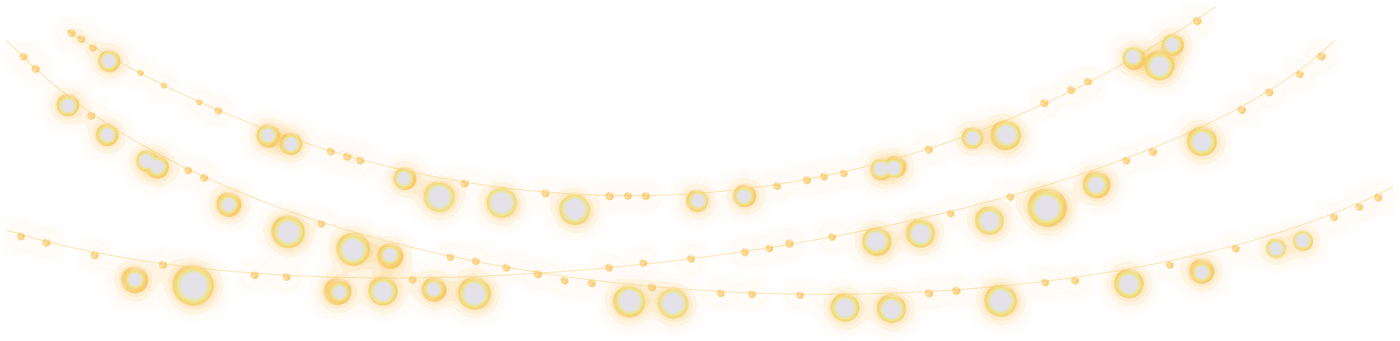
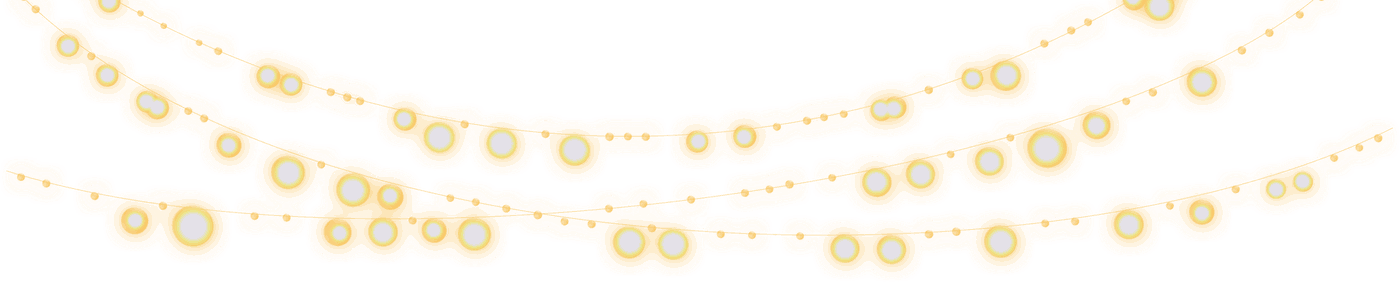
Frame the page and lift the upload form above the fold
Three things Ali asked for, and the reasons they mattered.

The garland hung in open space on a wide screen, strung between nothing. The
page now sits in a bordered frame, and the artwork is slightly wider than that
frame so its ends are cut by the border rather than stopping mid-air. Confetti
is gone from the top, where it sat on top of the lights, and kept at the
bottom.

The masthead was costing most of the first screen: a 260px barn stacked under
names split across three lines, which pushed the upload button — the only
thing the page exists for — off the bottom on a phone. The barn is now small
and beside the names, and the names run on one line.

This departs from the design system twice, deliberately. The invitation stacks
the names with the ampersand on its own row and sets the barn large and
centred beneath. That is right for a 5x7 card held in the hand; here the same
elements are laid out across instead of down, so the barn still appears on
every piece as the system asks.

The remaining height was the artwork itself, whose height follows its width.
Measuring the ink showed the bottom is dense with bulbs but the top 60px is
just thin arcs — and those are clipped by the frame regardless — so the source
image is re-cropped from the original rather than resized twice. A short-screen
rule narrows the frame further on laptops, which are wide but short, without
making a tall desktop feel cramped.
[…]

diff --git a/public/assets/styles.css b/public/assets/styles.css
@@ -71,10 +71,32 @@ a { color: var(--ink); }
 
 /* --- Page shell ---------------------------------------------------------- */
 
-.page {
+/* The garland used to hang in open space on a wide screen, with nothing for
+   it to be strung between. The frame gives it two walls: it is clipped at the
+   frame's edges, so it reads as strung across the room rather than floating. */
+.frame {
   position: relative;
+  max-width: 860px;
+  margin: 0 auto;
   min-height: 100vh;
   overflow: hidden;
+}
+
+@media (min-width: 900px) {
+  .frame {
+    margin: var(--space-3) auto;
+    min-height: calc(100vh - (var(--space-3) * 2));
+    border: 1px solid rgba(247, 231, 167, 0.55);
+  }
+}
+
+/* Laptop screens are wide but short. The garland's height follows the frame's
+   width, so a narrower frame on a short screen keeps the upload button on the
+   first screen without making a tall desktop feel cramped. */
+@media (min-width: 900px) and (max-height: 820px) {
+  .frame { max-width: 700px; }
+  .divider { margin: var(--space-1) auto; }
+  .masthead__barn { width: 96px; }
 }
 
 .wrap {
@@ -82,7 +104,6 @@ a { color: var(--ink); }
   z-index: 2;
   max-width: 34rem;
   margin: 0 auto;
-  /* space-4 page margins; the drop below the lights is also space-4. */
   padding: 0 var(--space-3) var(--space-4);
 }
 
@@ -97,10 +118,12 @@ a { color: var(--ink); }
   position: relative;
   left: 50%;
   transform: translateX(-50%);
-  width: 130%;
-  max-width: 1400px;
+  /* Slightly wider than the frame so its ends are cut off by the border,
+     rather than stopping short and dangling in mid-air. */
+  width: 112%;
+  max-width: none;
   height: auto;
-  margin-bottom: var(--space-4);
+  margin-bottom: var(--space-2);
   pointer-events: none;
   z-index: 1;
 }
@@ -128,22 +151,37 @@ a { color: var(--ink); }
 
 /* --- Type ---------------------------------------------------------------- */
 
+.masthead {
+  display: flex;
+  align-items: center;
+  justify-content: center;
+  gap: var(--space-3);
+  text-align: left;
+}
+
+.masthead__barn {
+  flex: 0 0 auto;
+  width: clamp(76px, 13vw, 132px);
+  height: auto;
+}
+
+.masthead__text > * + * { margin-top: var(--space-1); }
+
 .names {
   font-family: var(--font-serif);
-  /* 56px on the invitation; scaled down so it never wraps on a phone. */
-  font-size: clamp(2.125rem, 9vw, 3.5rem);
+  /* One line, per Ali's direction. The invitation stacks the names with the
+     ampersand on its own row; across reads better here and keeps the upload
+     button on the first screen. */
+  font-size: clamp(1.75rem, 6.2vw, 3.25rem);
   line-height: 1.1;
   letter-spacing: 0.04em;
   text-transform: uppercase;
   font-weight: 400;
   margin: 0;
+  white-space: nowrap;
 }
 
-.names .amp {
-  display: block;
-  font-size: 0.62em;
-  line-height: 1;
-}
+.names .amp { font-size: 0.78em; }
 
 .lead {
   font-size: clamp(1rem, 4vw, 1.25rem);
@@ -186,22 +224,11 @@ a { color: var(--ink); }
 
 /* --- Ornament ------------------------------------------------------------ */
 
-/* The Round Barn sketch sits centred below the names. It appears on every
-   piece in this system, so every page here carries it. */
-.barn {
-  display: block;
-  width: min(260px, 52vw);
-  height: auto;
-  margin: var(--space-3) auto 0;
-}
-
-.barn--small { width: min(150px, 34vw); }
-
 /* One scroll flourish per section; never stack two. */
 .divider {
   display: block;
-  margin: var(--space-3) auto;
-  width: min(240px, 60%);
+  margin: var(--space-2) auto;
+  width: min(200px, 52%);
   height: auto;
 }
 
@@ -544,8 +571,9 @@ a { color: var(--ink); }
 
 @media (max-width: 480px) {
   .wrap { padding: 0 var(--space-2) var(--space-4); }
-  .confetti { --confetti-size: 150px; }
-  .lights { width: 150%; margin-bottom: var(--space-3); }
+  .confetti { --confetti-size: 170px; }
+  .lights { width: 128%; margin-bottom: var(--space-2); }
+  .masthead { gap: var(--space-2); }
   .grid { grid-template-columns: repeat(auto-fill, minmax(118px, 1fr)); gap: 10px; }
 }
 

diff --git a/lib/view.php b/lib/view.php
@@ -28,9 +28,8 @@ function render_head(string $title, string $description = ''): void
 <link rel="stylesheet" href="assets/styles.css">
 </head>
 <body>
-<div class="page">
+<div class="frame">
   <img class="lights" src="assets/brand/string-lights.png" alt="" aria-hidden="true">
-  <div class="confetti tl" aria-hidden="true"></div>
   <div class="confetti br" aria-hidden="true"></div>
     <?php
 }
@@ -45,15 +44,29 @@ function render_foot(): void
 }
 
 /**
- * The couple's names, stacked with the ampersand on its own line.
- * Invitation order — ALI then ROBERT — as the invitation and welcome sign use.
+ * Masthead: the Round Barn beside the names rather than stacked above them.
+ *
+ * The invitation stacks the names with the ampersand on its own line and sets
+ * the barn large and centred beneath. That is right for a 5x7 card, but here
+ * it pushed the upload form below the fold on a phone, and the whole point of
+ * this page is the button. Same elements, laid out across instead of down.
  */
-function render_names(string $lead = ''): void
+function render_masthead(string $lead = '', bool $withDate = true): void
 {
-    if ($lead !== '') {
-        echo '<p class="lead">' . e($lead) . '</p>';
-    }
-    echo '<h1 class="names">ALI<span class="amp">&amp;</span>ROBERT</h1>';
+    ?>
+    <header class="masthead">
+      <img class="masthead__barn" src="assets/brand/round-barn.png" alt="" aria-hidden="true">
+      <div class="masthead__text">
+        <?php if ($lead !== ''): ?>
+          <p class="lead"><?= e($lead) ?></p>
+        <?php endif; ?>
+        <h1 class="names">ALI <span class="amp">&amp;</span> ROBERT</h1>
+        <?php if ($withDate): ?>
+          <p class="dateline">09<span class="bar">|</span>19<span class="bar">|</span>2026</p>
+        <?php endif; ?>
+      </div>
+    </header>
+    <?php
 }
 
 /** Numeric date with vertical bars, from the invitation front. */

diff --git a/public/index.php b/public/index.php
@@ -11,9 +11,7 @@ render_head(
 ?>
   <main class="wrap">
 
-    <?php render_names('Photographs from the Wedding of'); ?>
-    <?php render_dateline(); ?>
-    <?php render_barn(); ?>
+    <?php render_masthead('Photographs from the Wedding of'); ?>
     <?php render_divider(); ?>
 
     <?php if (empty($cfg['uploads_open'])): ?>
@@ -28,8 +26,7 @@ render_head(
       <h2 class="title">Our Day, Through Your Eyes</h2>
 
       <p class="body" style="margin-top:var(--space-2)">
-        Add any photographs or videos you took. There is nothing to install
-        and nothing to sign in to.
+        Add your photographs and videos — no sign-in needed.
       </p>
 
       <form class="card" data-uploader onsubmit="return false"

diff --git a/public/set-password.php b/public/set-password.php
@@ -20,8 +20,7 @@ if (!is_file($guard)) {
     render_head('Reset Password');
     ?>
       <main class="wrap">
-        <?php render_names(); ?>
-        <?php render_barn(true); ?>
+        <?php render_masthead('', false); ?>
         <?php render_divider(); ?>
         <h2 class="title">One Step First</h2>
         <div class="card" style="margin-top:var(--space-3)">
@@ -70,8 +69,7 @@ if (($_SERVER['REQUEST_METHOD'] ?? '') === 'POST') {
 render_head('Reset Password');
 ?>
   <main class="wrap">
-    <?php render_names(); ?>
-    <?php render_barn(true); ?>
+    <?php render_masthead('', false); ?>
     <?php render_divider(); ?>
 
 <?php if ($done): ?>

diff --git a/public/admin.php b/public/admin.php
@@ -58,8 +58,7 @@ render_head('Approvals — Ali & Robert');
 
 <?php if (!$authed): ?>
 
-    <?php render_names(); ?>
-    <?php render_barn(true); ?>
+    <?php render_masthead('', false); ?>
     <?php render_divider(); ?>
 
     <h2 class="title">Approvals</h2>
@@ -78,8 +77,7 @@ render_head('Approvals — Ali & Robert');
 
 <?php else: ?>
 
-    <?php render_names(); ?>
-    <?php render_barn(true); ?>
+    <?php render_masthead('', false); ?>
     <?php render_divider(); ?>
 
     <h2 class="title">Approvals</h2>

diff --git a/public/gallery.php b/public/gallery.php
@@ -13,9 +13,7 @@ render_head('The Gallery — Ali & Robert');
 ?>
   <main class="wrap wrap--wide">
 
-    <?php render_names('Photographs from the Wedding of'); ?>
-    <?php render_dateline(); ?>
-    <?php render_barn(true); ?>
+    <?php render_masthead('Photographs from the Wedding of'); ?>
     <?php render_divider(); ?>
 
     <h2 class="title">The Gallery</h2>

diff --git a/public/setup-token.php b/public/setup-token.php
@@ -338,8 +338,7 @@ render_head('Setup — Ali & Robert');
 </style>
   <main class="wrap">
 
-    <?php render_names(); ?>
-    <?php render_barn(true); ?>
+    <?php render_masthead('', false); ?>
     <?php render_divider(); ?>
 
 <?php if ($error): ?>
